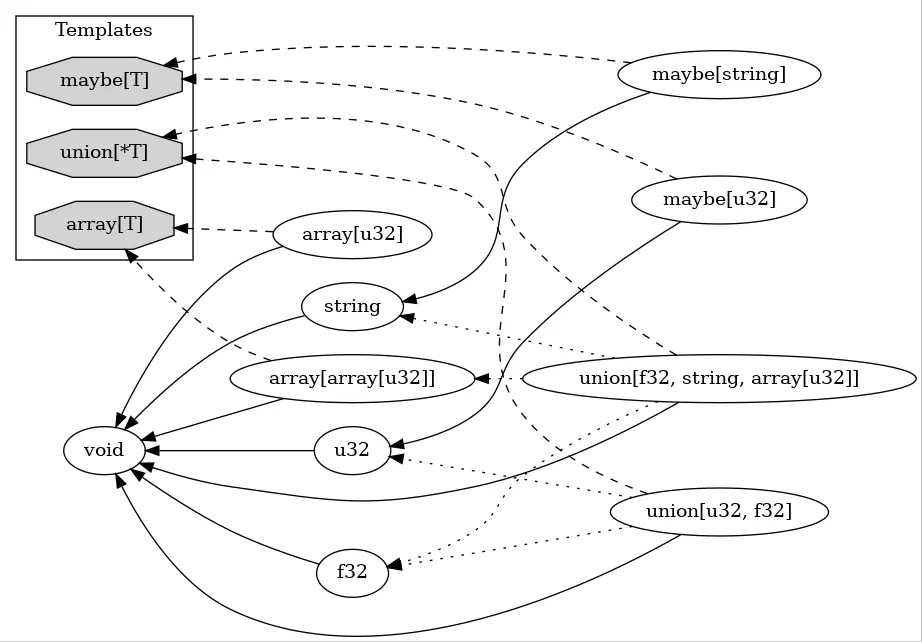
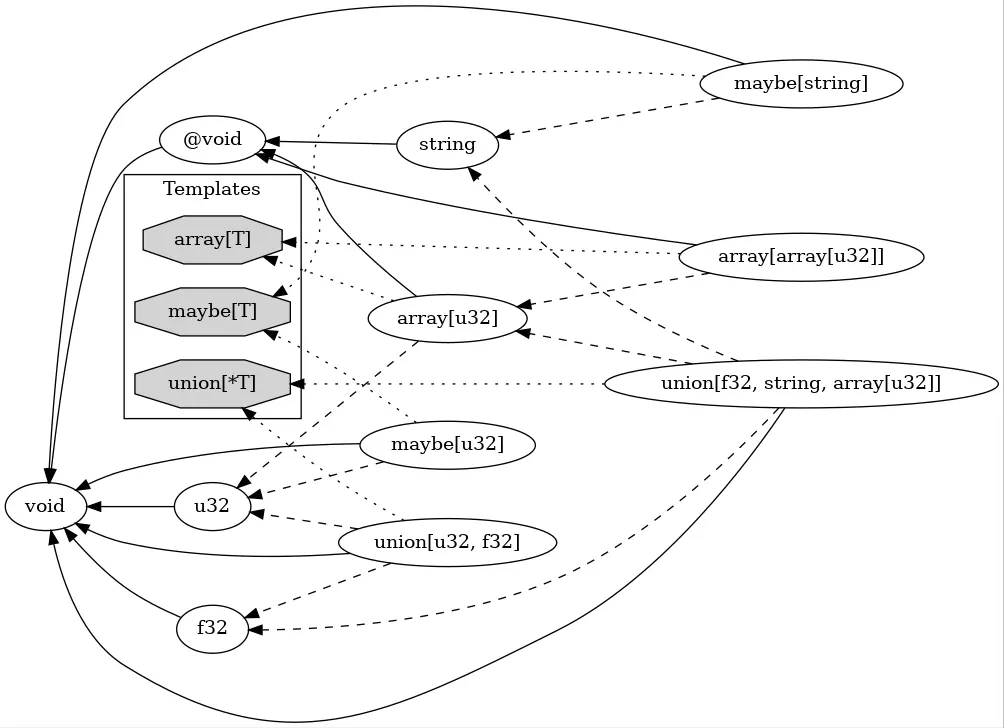
more type diagrams

diff --git a/_posts/2021-10-26-K0001-type-system.md b/_posts/2021-10-26-K0001-type-system.md
@@ -15,7 +15,7 @@ buckle up! we're about to deep dive into the world of types, values, templates, 
 
 ![type graph 0](/files/src/K0001/types0.dot.webp)
 
-the above figure is a graph of some types and templates in the Kata type system. each node represents a type (if round) or a template (if square). each node represents a base-sub type relationship (if solid), a type-template relationship (if dashed `- - -`), and/or an automatically castable type (if dotted `. . .`).
+the above figure is a graph of some types and templates in the Kata type system. each node represents a type (if round) or a template (if octogonal). each node represents a base-extends type relationship (if solid), a type-template relationship (if dotted `. . .`), and/or an automatically decay-able/cast-able type (if dashed `- - -`).
 
 
 for example:
